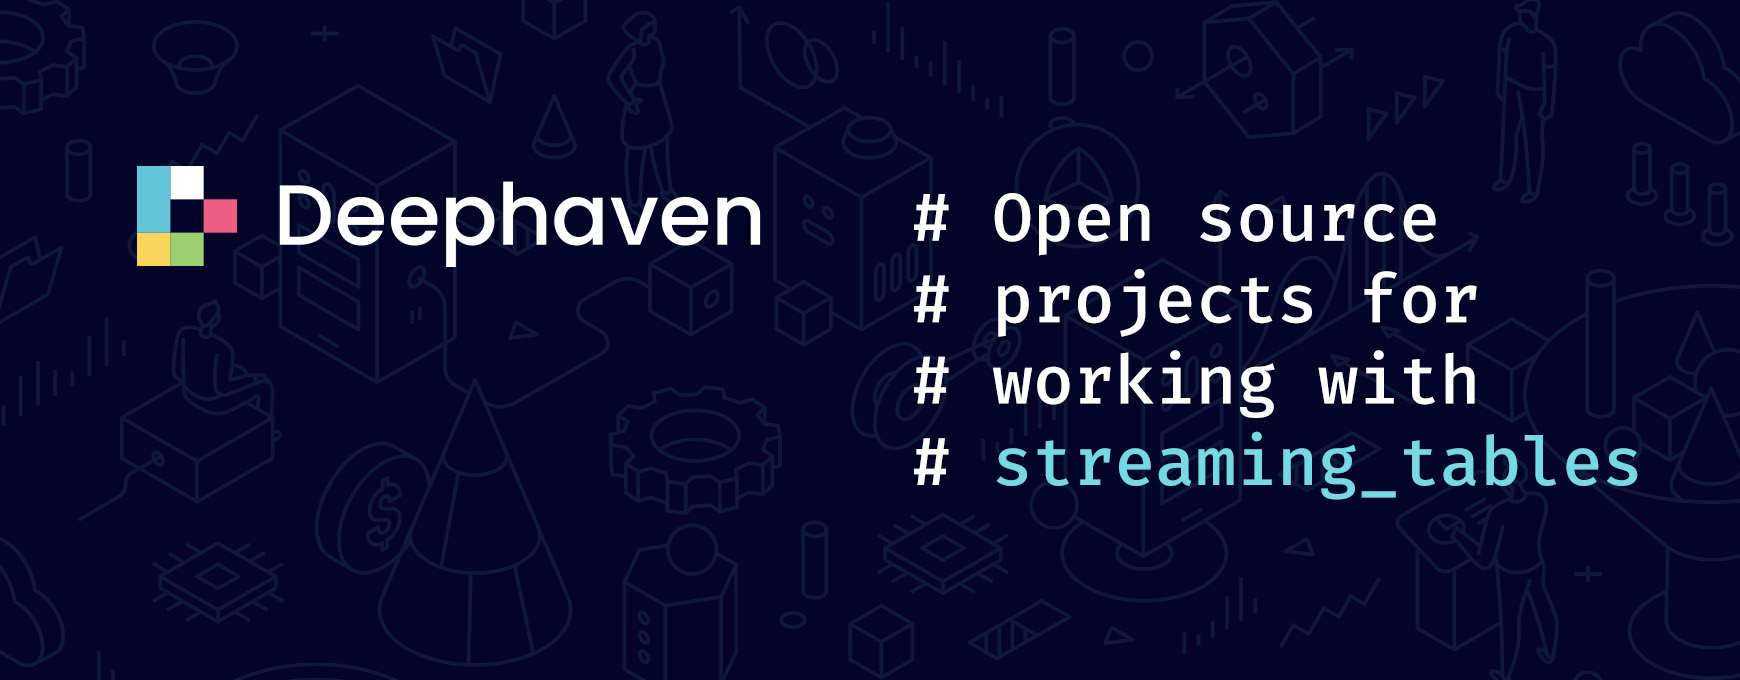
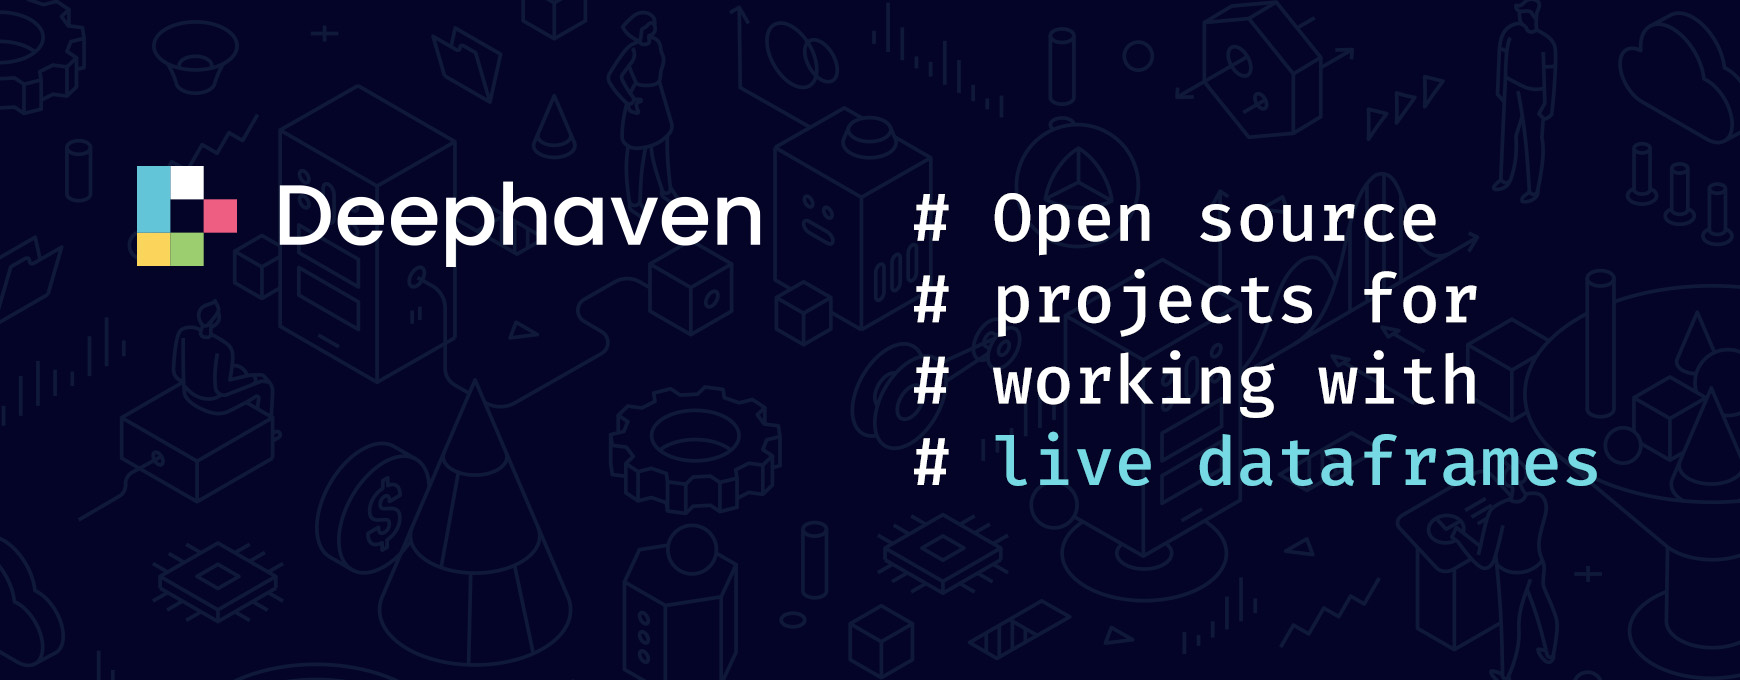
live dataframes wording change

Changed region(s): [[0.5586, 0.6176, 0.9621, 0.7412]]

diff --git a/profile/README.md b/profile/README.md
@@ -1,6 +1,6 @@
 ![Open Source at Deephaven](https://github.com/deephaven/.github/blob/main/images/github_header.jpg)
 
-We make working with streaming tables easy.
+We make working with live dataframes easy.
 
 ## Get involved
 
